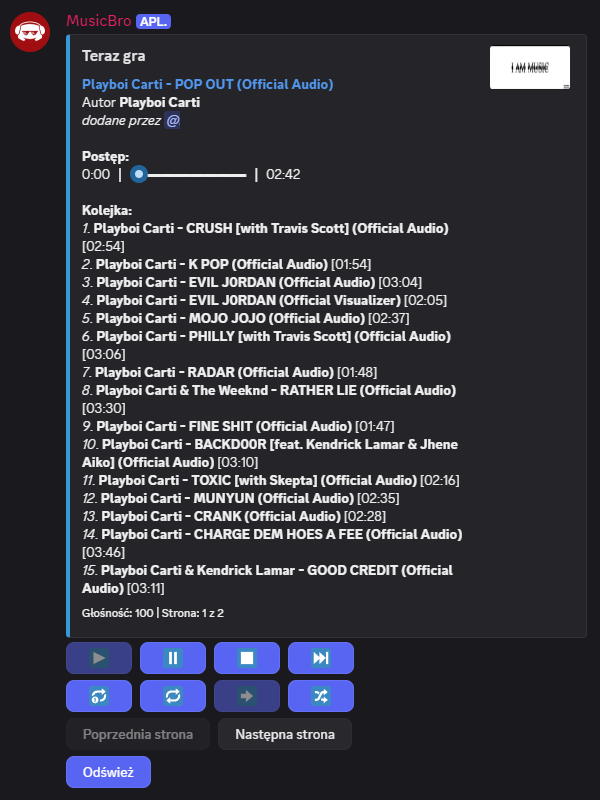
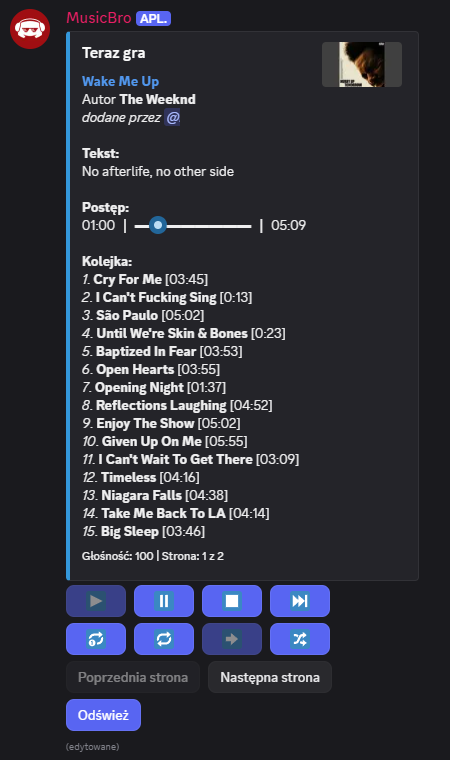
Update README and enhance player status with lyrics support

Changed region(s): [[0.0, 0.0, 0.7778, 0.9987], [0.7156, 0.0303, 0.9644, 0.1211]]

diff --git a/utils/embeds.js b/utils/embeds.js
@@ -6,6 +6,7 @@ const {
 } = require("discord.js");
 const { logInfo } = require("./logger");
 const { timedDelete } = require("./time");
+const { useMainPlayer } = require("discord-player");
 
 /**
  * Sends embed with error message to the interaction channel,
@@ -72,29 +73,53 @@ async function printError(
 async function sendStatus(queue) {
   try {
     if (!queue.currentTrack) return;
+    const player = useMainPlayer();
+    let lastLyricsLine = queue.metadata.lastLyricsLine || null;
+
     const howManyonPage = 15;
     const totalPages = Math.ceil(queue.getSize() / howManyonPage) || 1;
-
     let page = Math.max(0, Math.min(queue.metadata.page || 0, totalPages - 1));
-
-    if (queue.getSize() < howManyonPage) {
-      page = 0;
-    }
-
+    if (queue.getSize() < howManyonPage) page = 0;
     queue.metadata.page = page;
 
-    const bar = queue.node.createProgressBar({
-      queue: false,
-      length: 8,
-      timecodes: true
-    });
+    function buildDescription(queue, lyricsLine, page, howManyonPage) {
+      const bar = queue.node.createProgressBar({
+        queue: false,
+        length: 8,
+        timecodes: true
+      });
 
-    let description =
-      `[**${queue.currentTrack.title}**](${queue.currentTrack.url})\n` +
-      `Autor **${queue.currentTrack.author}**\n` +
-      `*dodane przez <@${queue.currentTrack.requestedBy.id}>*\n\n` +
-      `**Postęp:**\n${bar}` +
-      "\n\n**Kolejka:**\n";
+      let description =
+        `[**${queue.currentTrack.title}**](${queue.currentTrack.url})\n` +
+        `Autor **${queue.currentTrack.author}**\n` +
+        `*dodane przez <@${queue.currentTrack.requestedBy.id}>*\n\n` +
+        `**Tekst:**\n${lyricsLine || "_Brak dostępnych napisów_"}\n\n` +
+        `**Postęp:**\n${bar}\n\n**Kolejka:**\n`;
+
+      if (queue.getSize() > 0) {
+        const queueString = queue.tracks
+          .toArray()
+          .slice(page * howManyonPage, (page + 1) * howManyonPage)
+          .map((song, i) => {
+            return (
+              `*${page * howManyonPage + i + 1}*. ` +
+              `**${song.title}** [${song.duration}]`
+            );
+          });
+        description += queueString.join("\n");
+      } else {
+        description += "*Pusta*";
+      }
+
+      return description;
+    }
+
+    const description = buildDescription(
+      queue,
+      lastLyricsLine,
+      page,
+      howManyonPage
+    );
 
     const status = new EmbedBuilder()
       .setTitle(
@@ -110,10 +135,11 @@ async function sendStatus(queue) {
       .setThumbnail(queue.currentTrack.thumbnail)
       .setFooter({
         text:
-          `Głośność: ${queue.node.volume} | ` +
-          `Strona: ${page + 1} z ${totalPages}`
+          `Głośność: ${queue.node.volume} ` +
+          `| Strona: ${page + 1} z ${totalPages}`
       })
-      .setColor("Blue");
+      .setColor("Blue")
+      .setDescription(description);
 
     const resumeBtn = new ButtonBuilder()
       .setCustomId("resume")
@@ -190,26 +216,8 @@ async function sendStatus(queue) {
       disableLoopBtn,
       shuffleBtn
     );
-
     const row3 = new ActionRowBuilder().addComponents(previousBtn, nextBtn);
-
     const row4 = new ActionRowBuilder().addComponents(refreshBtn);
-
-    if (queue.getSize() > 0) {
-      const queueString = queue.tracks
-        .toArray()
-        .slice(page * howManyonPage, (page + 1) * howManyonPage)
-        .map((song, i) => {
-          return `*${page * howManyonPage + i + 1}*. **${song.title}** [${
-            song.duration
-          }]`;
-        });
-      description += `${queueString.join("\n")}`;
-    } else {
-      description += "*Pusta*";
-    }
-
-    status.setDescription(description);
 
     const embed = {
       embeds: [status],
@@ -221,6 +229,50 @@ async function sendStatus(queue) {
     }
 
     embed.components.push(row4);
+
+    (async () => {
+      try {
+        const title = queue.currentTrack.title;
+        const author = queue.currentTrack.author;
+        const track = title.includes(author) ? title : `${author} ${title}`;
+        const results = await player.lyrics.search({
+          trackName: track,
+          artistName: author
+        });
+        const first = results[0];
+        if (first && first.syncedLyrics) {
+          logInfo(
+            `Found synced lyrics for ${author} - ${track}: ` +
+              `${first.plainLyrics.replace(/\n/g, " ").slice(0, 50)}...`
+          );
+          const syncedLyrics = queue.syncedLyrics(first);
+          syncedLyrics.onChange(async (lyrics, timestamp) => {
+            queue.metadata.lastLyricsLine = lyrics;
+            const updatedDescription = buildDescription(
+              queue,
+              lyrics,
+              page,
+              howManyonPage
+            );
+            status.setDescription(updatedDescription);
+            try {
+              await queue.metadata.statusMessage.edit({
+                embeds: [status],
+                components: embed.components
+              });
+            } catch (err) {
+              logInfo("Live lyrics statusMessage edit", err);
+            }
+          });
+          syncedLyrics.subscribe();
+          lastLyricsLine = queue.metadata.lastLyricsLine;
+        } else {
+          logInfo(`Lyrics not found for ${author} - ${track}`);
+        }
+      } catch (err) {
+        logInfo("Lyrics fetch error", err);
+      }
+    })();
 
     try {
       await queue.metadata.statusMessage.edit(embed);

diff --git a/events/player.events/playerStart.js b/events/player.events/playerStart.js
@@ -8,6 +8,7 @@ module.exports = {
       `[${queue.guild.name}] Playing ${queue.currentTrack.title} ` +
         `(${queue.currentTrack.url}) [${queue.currentTrack.duration}]`
     );
+    queue.metadata.lastLyricsLine = null;
     utils.sendStatus(queue);
   }
 };

diff --git a/commands/volume.js b/commands/volume.js
@@ -11,7 +11,6 @@ module.exports = {
         .setName("value")
         .setDescription("Wartość głośności")
         .setMinValue(1)
-        .setMaxValue(1000)
         .setRequired(true)
     )
     .setContexts(InteractionContextType.Guild),

diff --git a/README.md b/README.md
@@ -12,7 +12,7 @@ MusicBro provides the following slash commands:
 
 1. `clear` - Clears the entire queue.
 2. `info` - Displays information about the bot's ping.
-3. `nowplaying` - Displays information about the currently playing song.
+3. `nowplaying` - Displays information about the currently playing song with lyrics.
 4. `play` - Searches for a song or songs based on a link or search query and starts playing.
 5. `remove` - Removes a song from the queue.
 6. `seek` - Seeks to a specified time in the current song.
